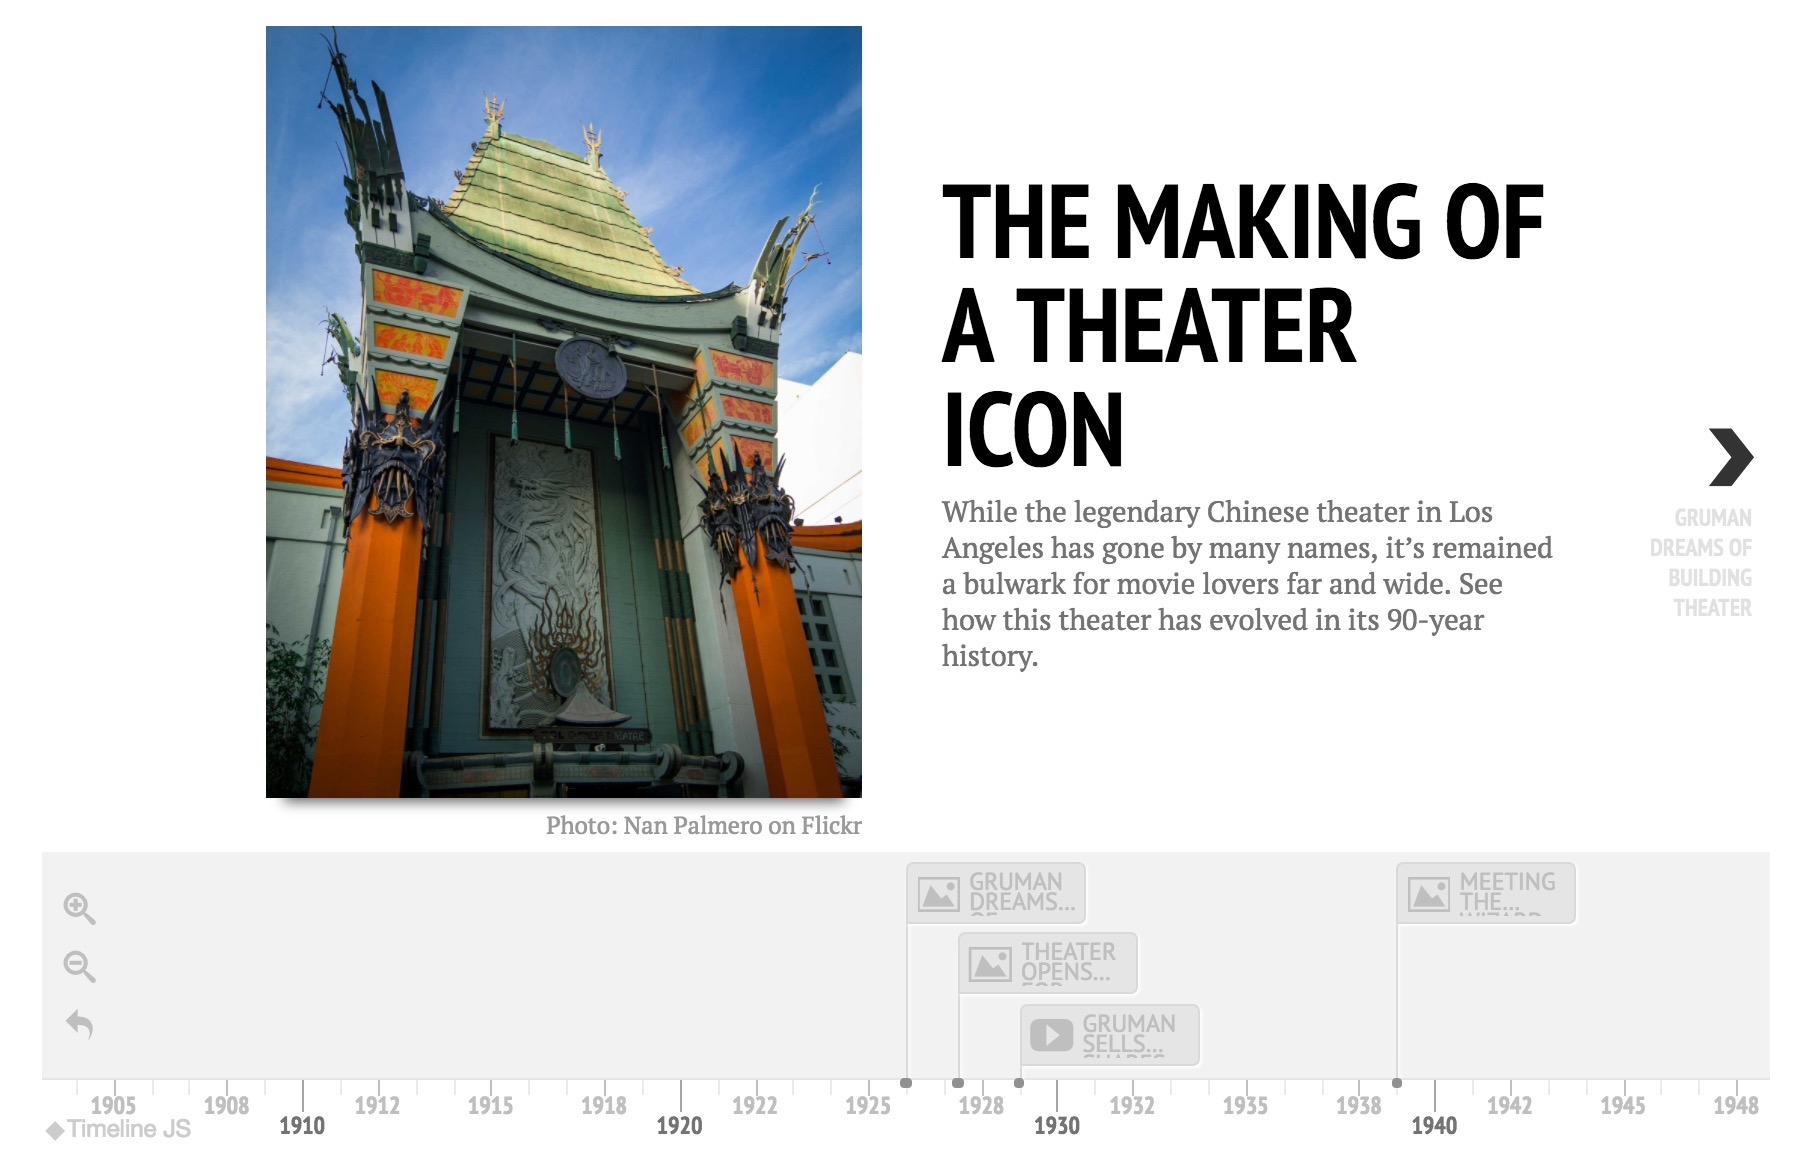
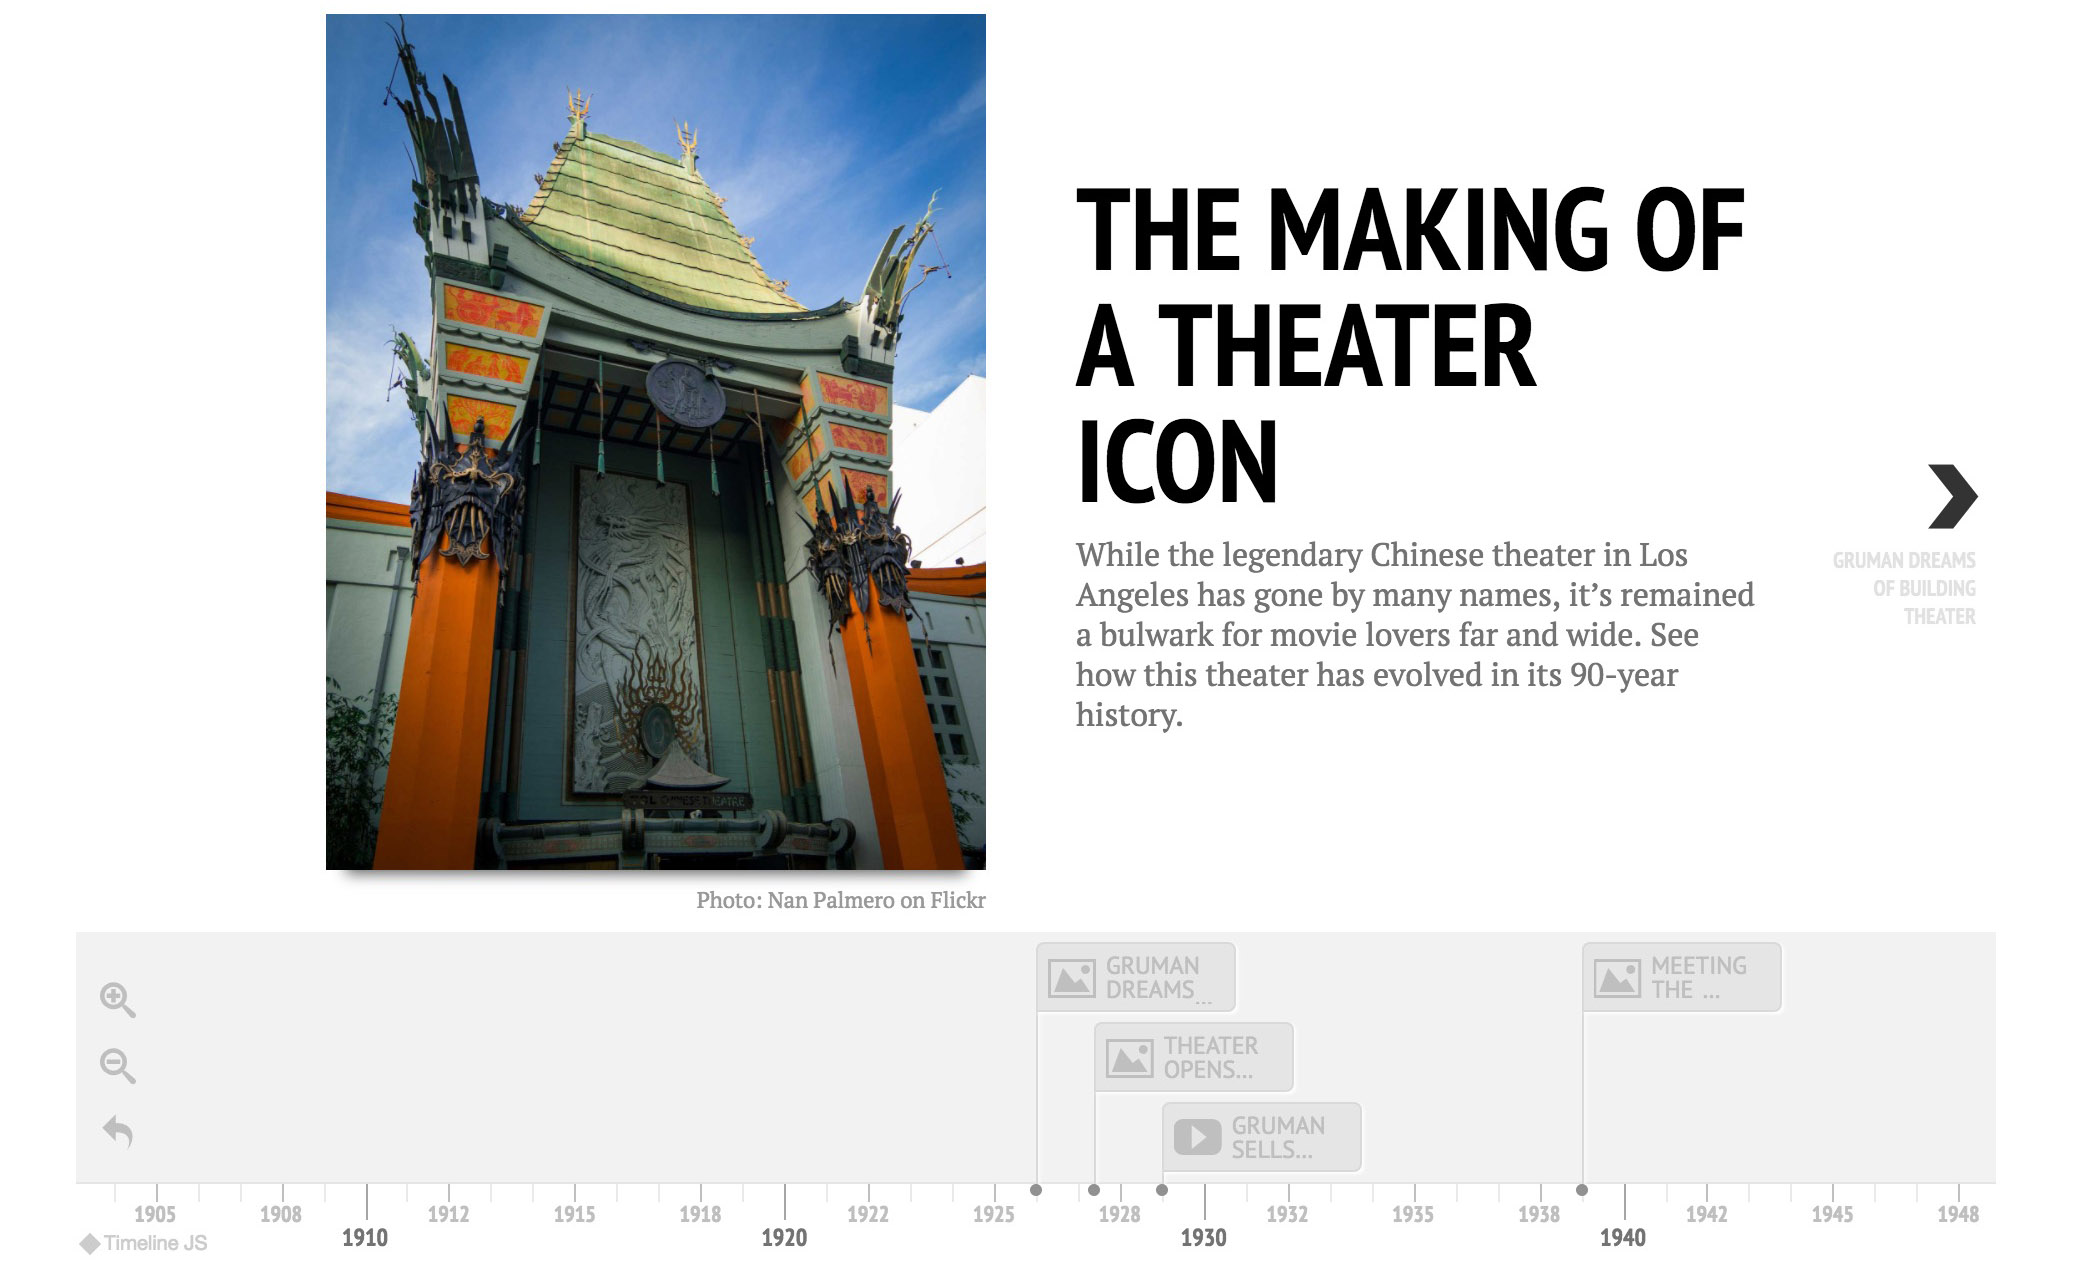
imgsizechange

diff --git a/index.html b/index.html
@@ -63,39 +63,37 @@ Here is where I complile the finished products. </p>
  <div id="pagewrap">
     <article id="content">
        <div class="img-with-text">
-
          <!--stories-->
-
       <a href="https://america.cgtn.com/2017/07/27/infographics-how-christopher-nolan-balances-box-office-with-storytelling" target="_blank">
-        <img id="projects" src="nolan_story.jpg" alt="cgtnamerica" style="width:400px; height:235px; max-width:100%; height:auto;">
+        <img class="projects" src="nolan_story.jpg" alt="cgtnamerica" style="width:400px; max-width:100%; height:auto;">
       </a>
           <h2>Infographics: How Christopher Nolan balances box office with storytelling</h2>
 
       <a href="https://america.cgtn.com/2017/06/20/interactive-map-potential-for-offshore-wind-power-in-us-is-enormous" target="_blank">
-        <img id="projects" src="onshore_offshore_map.jpg" alt="Onshore/Offshore Map" style="width:400px; height:235px; max-width:100%; height:auto;">
+        <img class="projects" src="onshore_offshore_map.jpg" alt="Onshore/Offshore Map" style="width:400px; max-width:100%; height:auto;">
       </a>
           <h2>Interactive Map: Potential for offshore wind power in US is enormous</h2>
 
       <a href="https://america.cgtn.com/2017/07/01/hong-kongs-economic-changes-in-7-charts" target="_blank">
-        <img id="projects" src="hong_kong_story.jpg" alt="Hong Kong" style="width:400px; height:235px; max-width:100%; height:auto;">
+        <img class="projects" src="hong_kong_story.jpg" alt="Hong Kong" style="width:400px; max-width:100%; height:auto;">
       </a>
           <h2>Hong Kong’s economic changes in 7 charts</h2>
-
     </article>
-
     <article id="middle">
-
       <a href="https://america.cgtn.com/2017/07/20/infographics-more-football-fans-turning-out-for-the-chinese-super-league" target="_blank">
-        <img id="projects" src="football_story.jpg" alt="cgtnamerica" style="width:400px; height:235px; max-width:100%; height:auto;">
+        <img class="projects" src="football_story.jpg" alt="cgtnamerica" style="width:400px; max-width:100%; height:auto;">
       </a>
           <h2>Infographics: More football fans turning out for the Chinese Super League</h2>
 
       <a href="https://america.cgtn.com/2017/06/07/timeline-learn-about-the-history-of-hollywoods-iconic-chinese-theater" target="_blank">
-        <img id="projects" src="cgtn_chinese_theatre_history_timeline.jpg" alt="Chinese Theatre Timeline" style="width:400px; height:235px;  max-width:100%; height:auto;">
+        <img class="projects" src="cgtn_chinese_theatre_history_timeline.jpg" alt="Chinese Theatre Timeline" style="width:400px; max-width:100%; height:auto;">
       </a>
           <h2>Timeline: Learn about the history of Hollywood’s iconic Chinese theater</h2>
-    </article>
-  </div>
+        </div>
+
+</article>
+
+
 
 </div>
 

diff --git a/stylesheet.css b/stylesheet.css
@@ -70,7 +70,7 @@ p {
   height:100%;
 }
 
-#projects {
+.projects {
    -webkit-filter: grayscale(100%);
    -moz-filter: grayscale(100%);
    -ms-filter: grayscale(100%);
@@ -80,7 +80,7 @@ p {
    box-shadow: 7px 7px 28px -1px rgba(0,0,0,0.75);
 }
 
-#projects:hover {
+.projects:hover {
    -webkit-filter: none;
    -moz-filter: none;
    -ms-filter: none;
@@ -89,12 +89,12 @@ p {
 }
 
 .img-with-text {
-    text-align: inherit;
+    text-align: justify;
     width: 400px;
 }
 
 .img-with-text img {
-    display: flex;
+    display: block;
     margin: 0 auto;
 }
 
@@ -137,7 +137,7 @@ h2 {
 
 #pagewrap {
 	padding: 20px;
-  width: 960px;
+  width: 1080px;
   margin: 20px auto;
   padding-left: 40px;
   padding-right: 250px;
@@ -147,20 +147,19 @@ h2 {
 
 #content {
   flex:2;
-	width: 280px;
 	float: left;
   padding: 5px 15px;
-  flex-wrap: wrap
+  flex-wrap: wrap;
 }
 
 #middle {
   flex:2;
-	width: 280px; /* Account for margins + border values */
+	width: 400px; /* Account for margins + border values */
 	float: left;
   padding: 5px 15px;
-  padding-left: 140px;
+  padding-left: 70px;
   margin: 0px 5px 5px 5px;
-  flex-wrap: wrap
+  flex-wrap: wrap;
 }
 
 #social {
@@ -206,16 +205,10 @@ header #content #middle {
    background:#6cf;
 }
 
-
-#projects img{
-   width: 400px;
-   height: 235px;
-}
-
 /* mobile */
 @media all and (max-width: 414px) {
 
-  #projects {
+  .projects {
      -webkit-filter: none;
      -moz-filter: none;
      -ms-filter: none;
@@ -300,15 +293,6 @@ p {
   padding-top: 30px;
   padding-left: 8px;
   margin-right: 10px;
-}
-
-#projects {
-  padding-right: 10px;
-  width: 300px;
-}
-
-#projects img{
-  width: 300px;
 }
 
 #middle {
